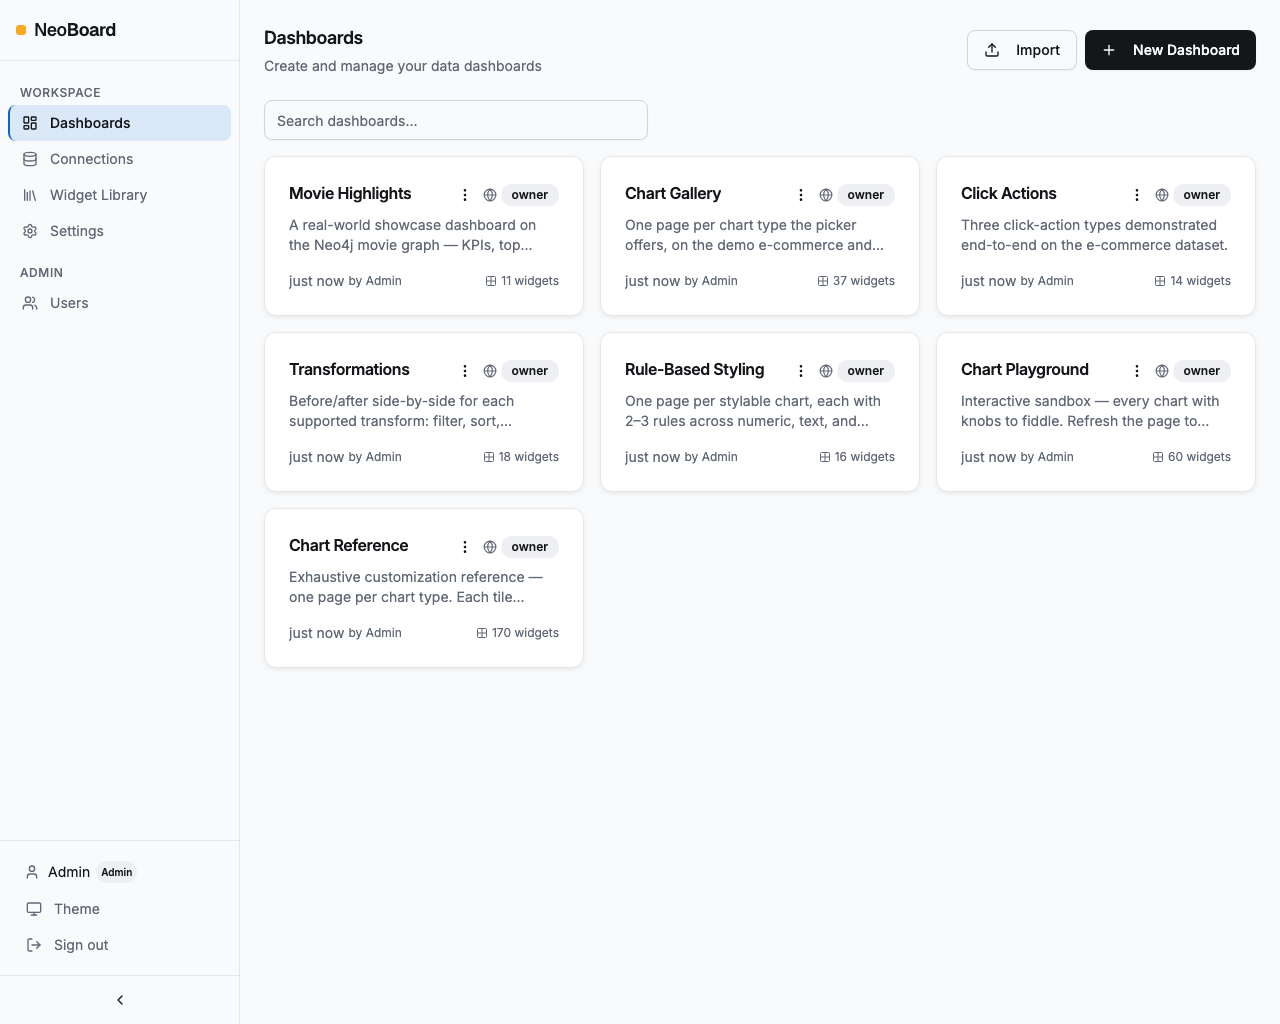
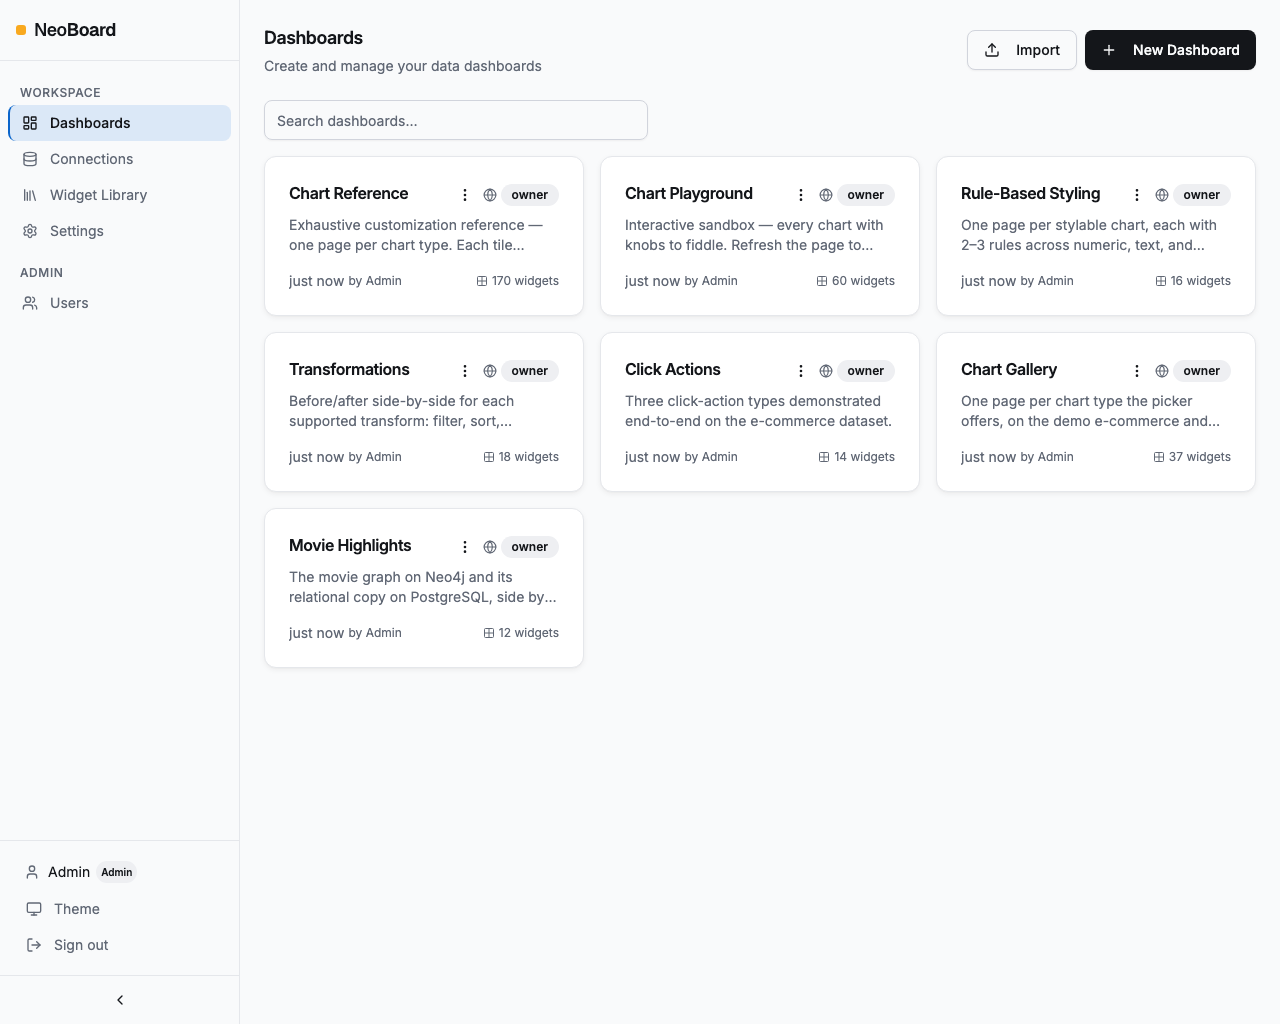
docs(screenshots): capture a hybrid Movie Highlights hero in light and dark, drop the stale README shots (#1861)
The docs walkthrough now writes screenshots/hero-light.png and
hero-dark.png at 2x from fresh light and dark contexts, and fails the run
if any widget is loading, empty or in error. Movie Highlights' graph and
films table are 5+7 columns at h7 so the hero frames the Actor filter, the
Neo4j graph and the PostgreSQL table without a half-cut row; the films
table shows all 12 rows with no pager. The six April README screenshots
go, and the tour images are regenerated from the hybrid dashboard.

diff --git a/app/e2e/showcase.walkthrough.ts b/app/e2e/showcase.walkthrough.ts
@@ -7,7 +7,7 @@ import {
   TEST_NEO4J_BOLT_URL,
   TEST_PG_PORT,
 } from "./fixtures";
-import type { Page, APIRequestContext } from "@playwright/test";
+import type { Browser, Page, APIRequestContext } from "@playwright/test";
 
 /**
  * A single continuous walkthrough of the chart fixes, recorded to video.
@@ -335,6 +335,62 @@ async function docsShot(page: Page, name: string) {
   await page.screenshot({ path: path.join(TOUR_SHOTS, name + ".png") });
 }
 
+const README_SHOTS = path.resolve(__dirname, "../../screenshots");
+
+/**
+ * The README hero, screenshots/hero-light.png and hero-dark.png (#1861): the
+ * dashboard `page` is on, from the top to the bottom of the films table, so the
+ * Actor filter, the Neo4j graph and the PostgreSQL table are all in frame.
+ *
+ * Not docsShot: the tour pins its images to 1280x1024 in light. A fresh context
+ * per theme, because colorScheme and deviceScaleFactor are fixed when a context
+ * opens; 2x keeps the image sharp in GitHub's ~850px README column.
+ */
+async function readmeShots(page: Page, browser: Browser) {
+  const storageState = await page.context().storageState();
+  for (const colorScheme of ["light", "dark"] as const) {
+    const context = await browser.newContext({
+      // Tall enough that the films table ends inside it: a clip cannot
+      // reach below the viewport. The clip stops inside the gap under the table.
+      viewport: { width: 1280, height: 1400 },
+      deviceScaleFactor: 2,
+      colorScheme,
+      reducedMotion: "reduce",
+      storageState,
+    });
+    const hero = await context.newPage();
+    await hero.goto(page.url());
+    const cards = hero.locator("[data-testid='widget-card']");
+    await expect(cards.first()).toBeVisible({ timeout: 30_000 });
+    const films = hero.locator("[data-widget-id='mh-table-films']");
+    await expect(films.getByText("Cast Away")).toBeVisible();
+    await hero.waitForLoadState("networkidle");
+    // NVL's force layout and the chart animations settle.
+    await hero.waitForTimeout(BEAT * 2);
+    // A broken hero fails the run, checked once the queries settle: no card
+    // loading, waiting, empty or failed.
+    await expect(cards.locator("[data-loading]")).toHaveCount(0);
+    await expect(cards.getByRole("alert")).toHaveCount(0);
+    await expect(
+      cards.getByText(
+        /Waiting for parameters|No data|Incompatible data format|No connection configured|No query configured|Unknown chart type/,
+      ),
+    ).toHaveCount(0);
+    const box = await films.boundingBox();
+    expect(box).not.toBeNull();
+    await hero.screenshot({
+      path: path.join(README_SHOTS, `hero-${colorScheme}.png`),
+      clip: {
+        x: 0,
+        y: 0,
+        width: 1280,
+        height: Math.ceil(box!.y + box!.height + 6),
+      },
+    });
+    await context.close();
+  }
+}
+
 test.describe("docs: Tour NeoBoard with demo data (#1682)", () => {
   // Off unless asked, so a plain showcase run leaves the committed images alone.
   test.skip(
@@ -348,7 +404,7 @@ test.describe("docs: Tour NeoBoard with demo data (#1682)", () => {
     contextOptions: { reducedMotion: "reduce" },
   });
 
-  test("tour screenshots", async ({ authPage, page }) => {
+  test("tour screenshots", async ({ authPage, page, browser }) => {
     test.slow();
     const api = page.request;
     // Dynamic: a static import runs showcases.mjs through Playwright's CJS
@@ -455,6 +511,7 @@ test.describe("docs: Tour NeoBoard with demo data (#1682)", () => {
     await page.waitForLoadState("networkidle");
     await page.waitForTimeout(BEAT);
     await docsShot(page, "movie-highlights");
+    await readmeShots(page, browser);
 
     await page.goto("/" + highlightsId + "/edit");
     // Clicking before the edit page finishes loading its dashboard opens the
